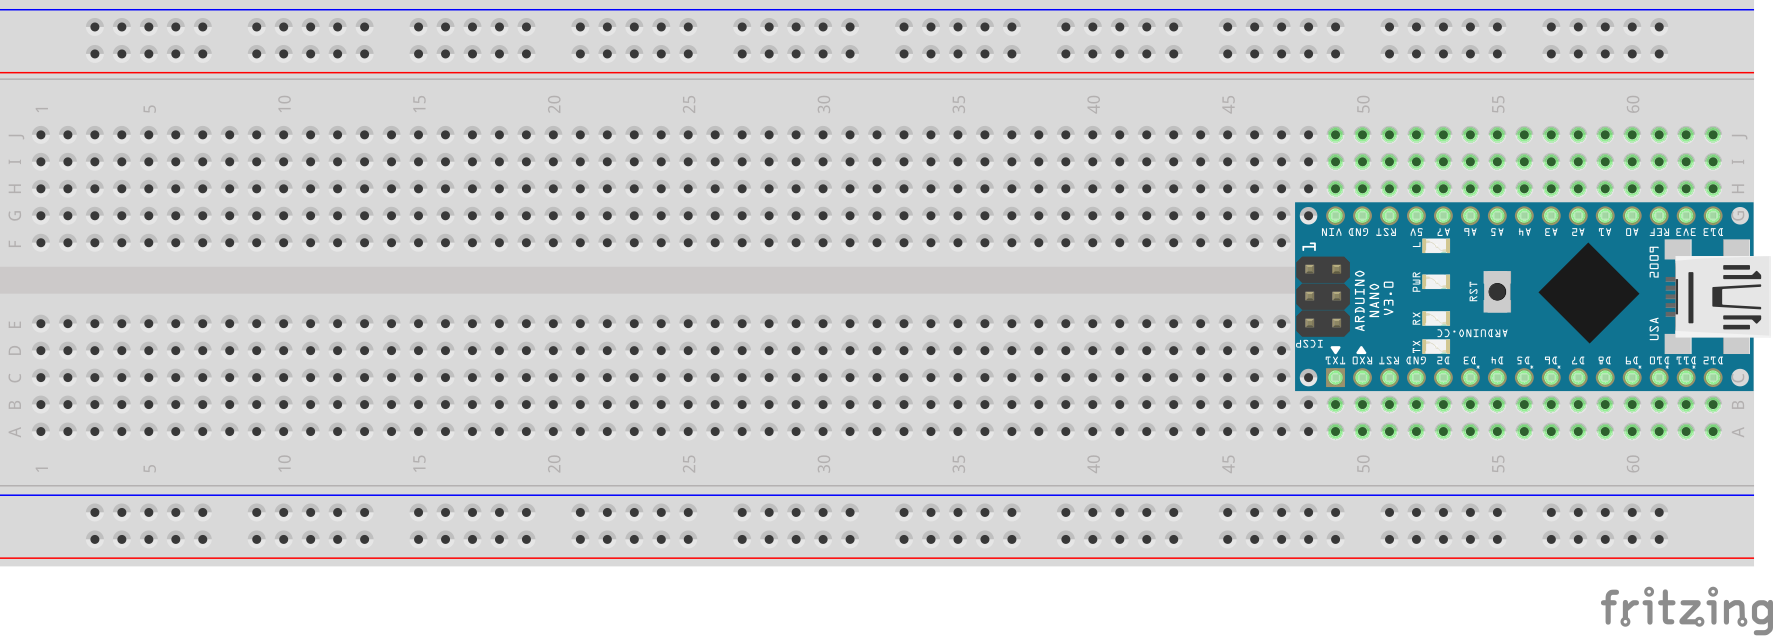
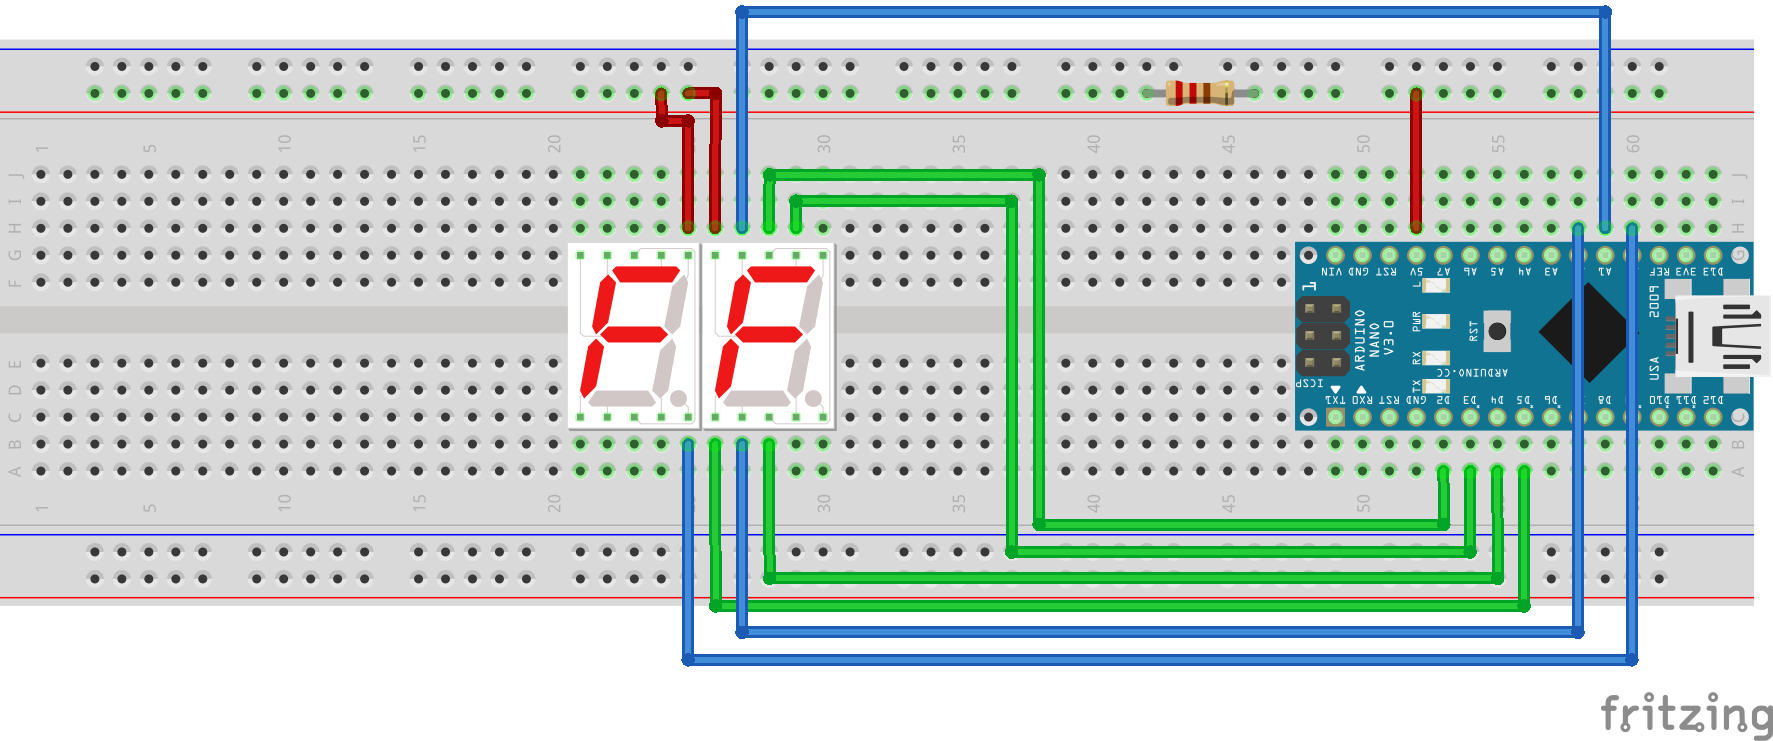
chore: exercise 2.1

diff --git a/O2_1/assets/fritzing/schema.html b/O2_1/assets/fritzing/schema.html
@@ -1,0 +1,92 @@
+<!DOCTYPE html PUBLIC "-//W3C//DTD XHTML 1.0 Transitional//EN" "http://www.w3.org/TR/xhtml1/DTD/xhtml1-transitional.dtd">
+<html xmlns="http://www.w3.org/1999/xhtml">
+<head>
+<meta http-equiv="Content-Type" content="text/html; charset=utf-8" />
+<title>Fritzing Bill of Materials</title>
+<style type="text/css">
+.meta {
+	font-size: small;
+	margin: 0.4em 0;
+}
+table {
+	border-collapse: collapse;
+}
+th {
+	font-weight: bold;
+	text-align: left;
+	border-bottom: 1px solid black;
+	padding: 0.1em 1.5em 0.2em 0.1em;
+}
+td {
+	border-bottom: 1px solid #CCC;
+	padding: 0.5em 1.5em 0.5em 0.1em;
+}
+.props {
+	font-size: smaller;
+}
+</style>
+</head>
+
+<body>
+<h1>Bill of Materials: schema.fzz</h1>
+<p class="meta">/Users/maartenpaauw/Code/School/IMTHE1/O2_1/assets/fritzing/schema.fzz</p>
+<p class="meta">donderdag, februari 15 2018, 17:00:06</p>
+
+<h2>Assembly List</h2>
+<table>
+
+  <thead>
+   <tr>
+    <th>Label</th>
+    <th>Part Type</th>
+    <th>Properties</th>
+    </tr>
+  </thead>
+  <tbody>
+  <tr>
+    <td>Onderdeel2</td>
+    <td>Arduino Nano (Rev3.0)</td>
+    <td class="props">type Arduino Nano (3.0)</td>
+</tr><tr>
+    <td>R1</td>
+    <td>220Ω Resistor</td>
+    <td class="props">bands 4; pin afstanden 400 mil; tolerantie ±5%; pakket THT; weerstand 220Ω</td>
+</tr><tr>
+    <td>U1</td>
+    <td>7-SEGMENT-DISPLAY</td>
+    <td class="props">variant pth; pakket 7-segment-display; segments 7</td>
+</tr><tr>
+    <td>U2</td>
+    <td>7-SEGMENT-DISPLAY</td>
+    <td class="props">variant pth; pakket 7-segment-display; segments 7</td>
+</tr>
+  </tbody>
+</table>
+<h2>Shopping List</h2>
+<table>
+  <thead>
+	<tr>
+    <th>Amount</th>
+    <th>Part Type</th>
+    <th>Properties</th>
+    </tr>
+  </thead>
+  <tbody>
+<tr>
+    <td>1</td>
+    <td>Arduino Nano (Rev3.0)</td>
+    <td class="props">type Arduino Nano (3.0)</td>
+</tr><tr>
+    <td>1</td>
+    <td>220Ω Resistor</td>
+    <td class="props">bands 4; pin afstanden 400 mil; tolerantie ±5%; pakket THT; weerstand 220Ω</td>
+</tr><tr>
+    <td>2</td>
+    <td>7-SEGMENT-DISPLAY</td>
+    <td class="props">variant pth; pakket 7-segment-display; segments 7</td>
+</tr>
+  </tbody>
+</table>
+<p class="meta"><br/>Exported with Fritzing 0.9.3- http://fritzing.org</p>
+</body>
+</html>

diff --git a/O2_1/src/main.c b/O2_1/src/main.c
@@ -34,6 +34,7 @@ void handleD (int number) {
 
 int main(void)
 {
+    // Segmenten als binair getal voor de cijfers 0 t/m 9.
     int numbers[10] = {
         // GFEDCBA
         0b00111111, // 0
@@ -72,6 +73,5 @@ int main(void)
         a++;
     }
 
-    // Because...
     return 0;
 }

diff --git a/O2_1/README.md b/O2_1/README.md
@@ -1,15 +1,21 @@
-# Opdracht 2
+# Opdracht 2.1
 
 > Count Me In
 
 Deze opdracht bestaat uit drie kleinere opdrachten:
 
-1. Maak een programma dat op het 7-segment LED display herhalend telt van 0 t/m 9. Gebruik het rechter display van de twee en verwerk functies en bit-shifting in je oplossing.
+1. **Maak een programma dat op het 7-segment LED display herhalend telt van 0 t/m 9. Gebruik het rechter display van de twee en verwerk functies en bit-shifting in je oplossing.**
 2. Breidt de eerste deel-opdracht uit zodat de twee segmenten samen van 0 t/m 99 tellen.
 
 ## Aanpak en Uitvoering
 
-TODO
+### Vinden van een datasheet
+
+Uitleg over het vinden van de datasheet.
+
+### Common anode en cathode
+
+Uitleg over hoe ik dit heb uitgezocht.
 
 ## Afbeelding
 
@@ -17,15 +23,15 @@ TODO
 
 De afbeelding van de setup kan ook gedownload worden via de volgende link:
 
-[https://raw.githubusercontent.com/maartenpaauw/IMTHE1/master/O2/assets/setup.jpg](https://raw.githubusercontent.com/maartenpaauw/IMTHE1/master/O2/assets/setup.jpg)
+[https://raw.githubusercontent.com/maartenpaauw/IMTHE1/master/O2_1/assets/setup.jpg](https://raw.githubusercontent.com/maartenpaauw/IMTHE1/master/O2_1/assets/setup.jpg)
 
 ## Video
 
-[![Opdracht 2 - Count Me In - Video](assets/youtube.png)](https://www.youtube.com/)
+[![Opdracht 2 - Count Me In - Video](assets/youtube.png)](https://www.youtube.com/watch?v=wHO4zX4rpPY)
 
 Deze video is ook te vinden op **Youtube**:
 
-[https://www.youtube.com/](https://www.youtube.com/)
+[https://www.youtube.com/watch?v=wHO4zX4rpPY](https://www.youtube.com/watch?v=wHO4zX4rpPY)
 
 ## Breadboard Schema
 
@@ -33,34 +39,94 @@ Deze video is ook te vinden op **Youtube**:
 
 Het **Fritzing** schema kan ook gedownload worden via de volgende link:
 
-[https://github.com/maartenpaauw/IMTHE1/raw/master/O2/assets/fritzing/schema.fzz](https://github.com/maartenpaauw/IMTHE1/raw/master/O2/assets/fritzing/schema.fzz)
+[https://github.com/maartenpaauw/IMTHE1/raw/master/O2_1/assets/fritzing/schema.fzz](https://github.com/maartenpaauw/IMTHE1/raw/master/O2_1/assets/fritzing/schema.fzz)
 
 ### Hardware
 
-| Onderdelen                 |
-| -------------------------- |
-| Arduino Nano (v3.0) - 1×   |
+| Onderdelen                |
+| ------------------------- |
+| Arduino Nano (v3.0) - 1×  |
+| 220Ω Resistor - 1×        |
+| Dupont Kabel - 10×        |
+| 7 Segment (D5621A/B) - 1× |
+
 
 ## Code
 
 ```c
 /*
- * Opdracht 2 - Count Me In
+ * Opdracht 2.1 - Count Me In
  * 
  * Maarten Paauw <s1094220@student.hsleiden.nl>
  * s1094220
  * INF3C
  */
 
+/*
+ * RIGHT DIGIT
+ *
+ * PD2 = A
+ * PD3 = B
+ * PD4 = C
+ * PD5 = D
+ * 
+ * PC0 = E
+ * PC1 = F
+ * PC2 = G
+ */
+
 #include <avr/io.h>
 #include <util/delay.h>
 
+// Regel de C pinnen.
+void handleC (int number) {
+    PORTC =~ ((number << 1) >> 5);
+}
+
+// Regel de D pinnen.
+void handleD (int number) {
+    PORTD =~ ((number << 4) >> 2);
+}
+
 int main(void)
 {
+    // Segmenten als binair getal voor de cijfers 0 t/m 9.
+    int numbers[10] = {
+        // GFEDCBA
+        0b00111111, // 0
+        0b00000110, // 1
+        0b01011011, // 2
+        0b01001111, // 3
+        0b01100110, // 4
+        0b01101101, // 5
+        0b01111101, // 6
+        0b00000111, // 7
+        0b01111111, // 8
+        0b01101111  // 9
+    };
+
+    // Count
+    int a = 0;
+
+    // Zet alle C pinnen op output.
+    DDRC = 0xFF;
+
+    // Zet alle D pinnen op output.
+    DDRD = 0xFF;
 
     while (1)
     {
-        
+        // Regel de C pinnen.
+        handleC(numbers[a % 10]);
+
+        // Regel de D pinnen.
+        handleD(numbers[a % 10]);
+
+        // Wacht 1 seconden.
+        _delay_ms(1000);
+
+        // Tel de A op.
+        a++;
     }
 
     return 0;
@@ -69,7 +135,7 @@ int main(void)
 
 De code kan ook gevonden worden in mijn **GitHub** *repository* via de volgende link:
 
-[https://github.com/maartenpaauw/IMTHE1/blob/master/O2/src/main.c](https://github.com/maartenpaauw/IMTHE1/blob/master/O2/src/main.c)
+[https://github.com/maartenpaauw/IMTHE1/blob/master/O2_1/src/main.c](https://github.com/maartenpaauw/IMTHE1/blob/master/O2_1/src/main.c)
 
 ## Datasheet
 
@@ -81,9 +147,20 @@ De [Arduino Nano Pinout][1] is uitgedeeld tijdens de eerste les en terug te vind
 
 [https://forum.arduino.cc/index.php?topic=147582.0][1]
 
+### 7 Segment Display Pinout
+
+![D5621A_B](assets/data_sheets/D5621A_B.png)
+
+De 7 Segment Display pinout heb ik gevonden op het internet via de volgende link:
+
+[http://www.datasheetarchive.com/pdf/download.php?id=2e413cb5ea82e53f65ba9873ced61ae74e9e4a&type=P&query=A%2Fd5621A%2FB][2]
+
 ## Bronvermelding
 
 * [https://forum.arduino.cc/index.php?topic=147582.0][1] (Arduino Nano Pinout)
-* https://en.wikipedia.org/wiki/Seven-segment_display (7 Segment)
+* [http://www.datasheetarchive.com/pdf/download.php?id=2e413cb5ea82e53f65ba9873ced61ae74e9e4a&type=P&query=A%2Fd5621A%2FB][2] (7 Segment Datasheet)
+* [https://en.wikipedia.org/wiki/Seven-segment_display][3] (7 Segment Display)
 
 [1]: https://forum.arduino.cc/index.php?topic=147582.0 "Arduino Nano Pinout"
+[2]: http://www.datasheetarchive.com/pdf/download.php?id=2e413cb5ea82e53f65ba9873ced61ae74e9e4a&amp;amp;amp;type=P&amp;amp;amp;query=A%2Fd5621A%2FB "7 Segment (D5621A/B) Datasheet"
+[3]: https://en.wikipedia.org/wiki/Seven-segment_display "7 Segment Display"
